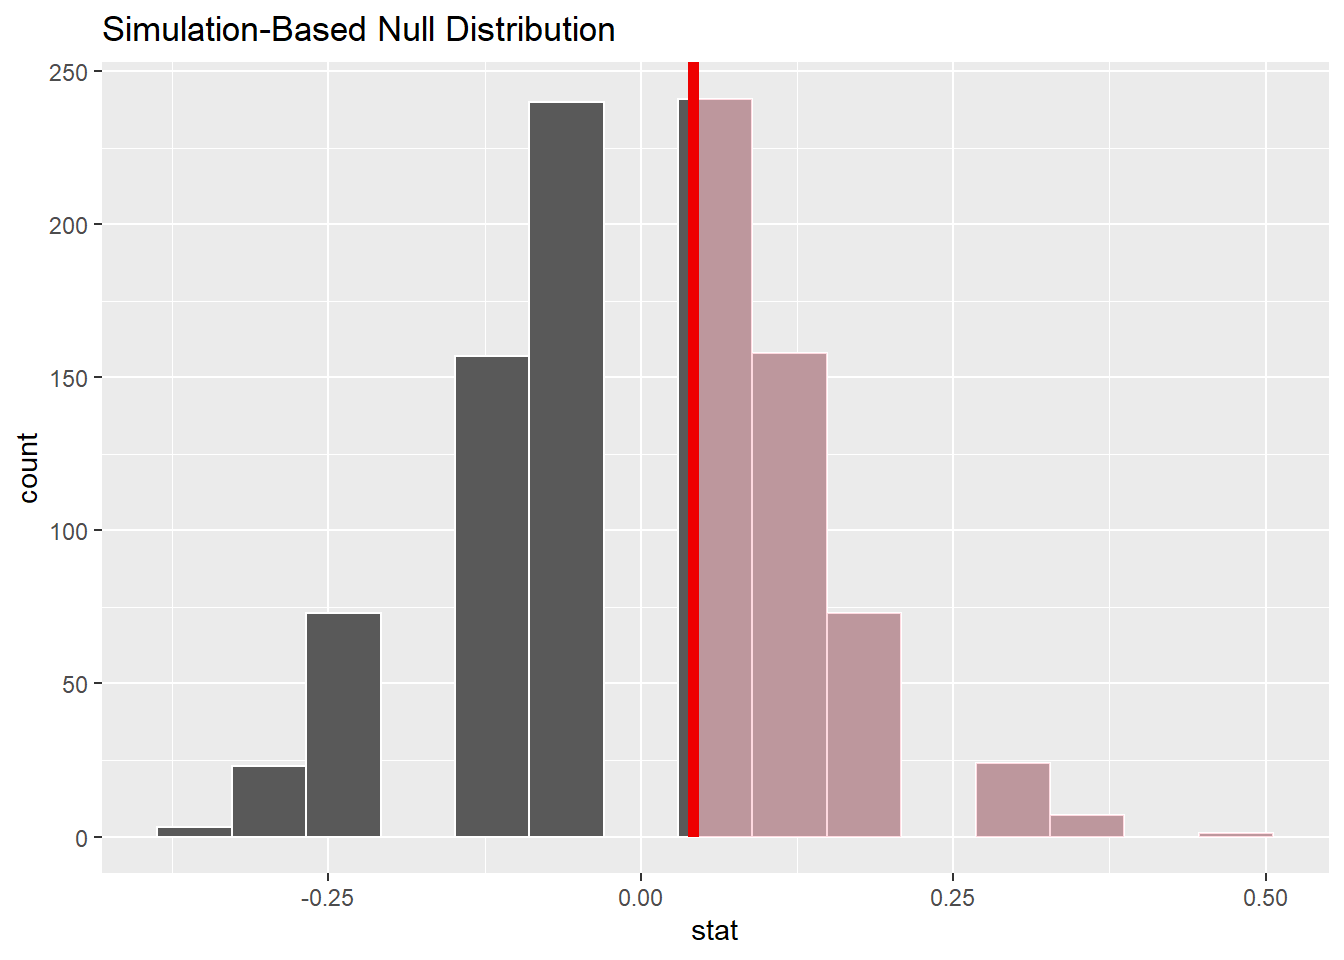
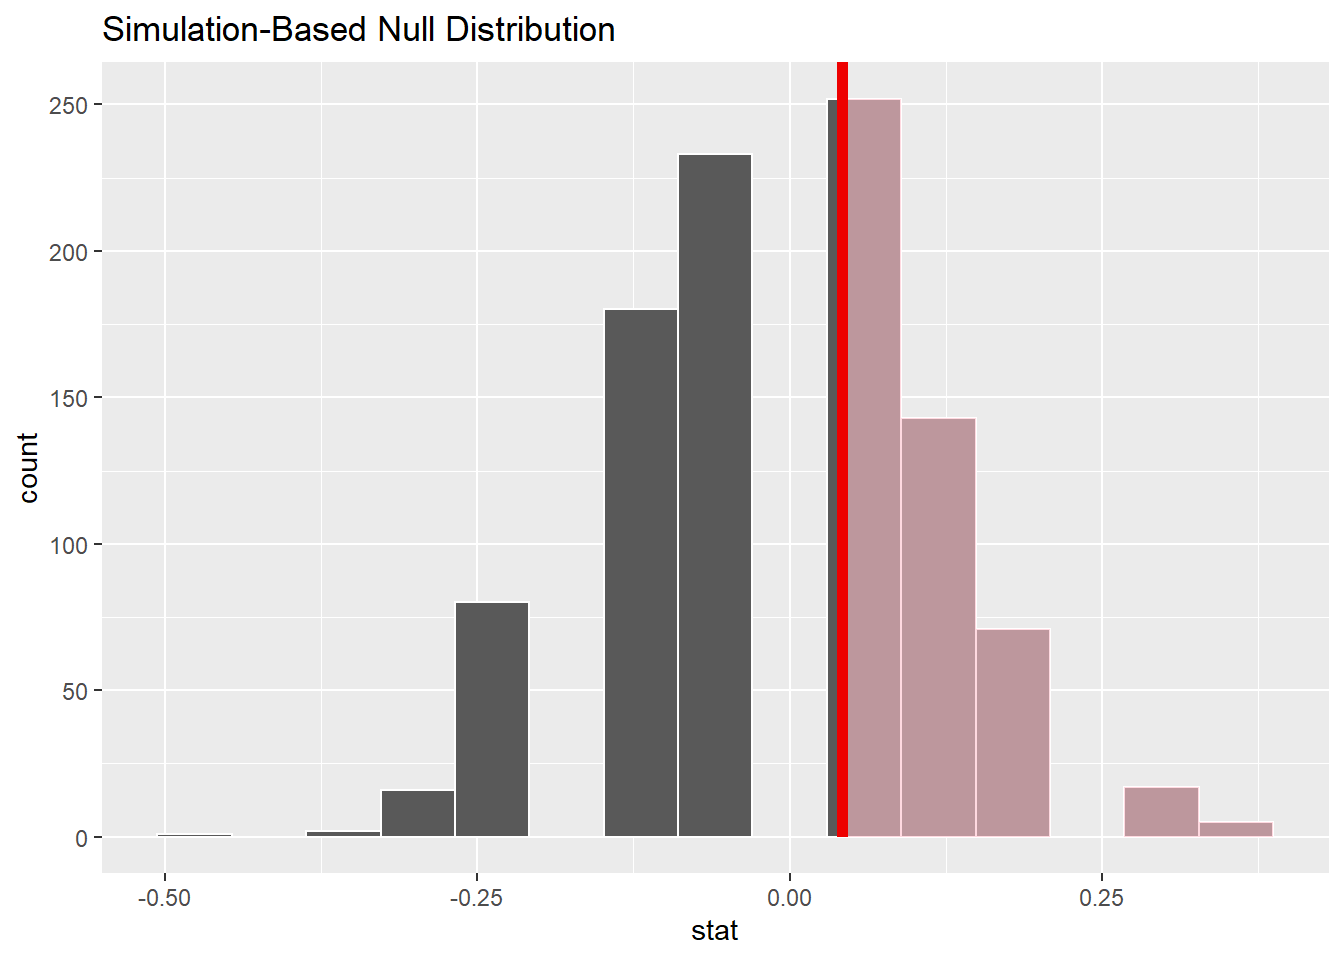
dd

diff --git a/content/post/R/2021-10-13-foundations-of-inference/index.en.html b/content/post/R/2021-10-13-foundations-of-inference/index.en.html
@@ -145,14 +145,14 @@ homeown_perm</code></pre>
 ##    HomeOwn Gender replicate
 ##    &lt;fct&gt;   &lt;fct&gt;      &lt;int&gt;
 ##  1 Own     male           1
-##  2 Own     male           1
+##  2 Rent    male           1
 ##  3 Own     male           1
 ##  4 Own     male           1
 ##  5 Own     female         1
-##  6 Own     male           1
-##  7 Own     male           1
+##  6 Rent    male           1
+##  7 Rent    male           1
 ##  8 Own     female         1
-##  9 Own     female         1
+##  9 Rent    female         1
 ## 10 Own     female         1
 ## # ... with 97,110 more rows</code></pre>
 </div>
@@ -178,16 +178,16 @@ homeown_perm</code></pre>
 <pre><code>## # A tibble: 100 x 2
 ##    replicate      stat
 ##        &lt;int&gt;     &lt;dbl&gt;
-##  1         1 -0.00495 
-##  2         2  0.000409
-##  3         3 -0.00495 
-##  4         4  0.0148  
-##  5         5 -0.00577 
-##  6         6 -0.00700 
-##  7         7 -0.0202  
-##  8         8 -0.00289 
-##  9         9 -0.00206 
-## 10        10  0.00906 
+##  1         1  0.000821
+##  2         2  0.00988 
+##  3         3  0.0115  
+##  4         4 -0.0119  
+##  5         5  0.00370 
+##  6         6  0.0152  
+##  7         7  0.0173  
+##  8         8  0.00576 
+##  9         9  0.0152  
+## 10        10  0.000821
 ## # ... with 90 more rows</code></pre>
 <pre class="r"><code># Perform 100 permutations
 homeown_perm &lt;- homes %&gt;%
@@ -369,11 +369,11 @@ disc_perm %&gt;%
 <pre><code>## # A tibble: 5 x 2
 ##   replicate    stat
 ##       &lt;int&gt;   &lt;dbl&gt;
-## 1         1  0.125 
-## 2         2  0.208 
-## 3         3 -0.0417
-## 4         4  0.292 
-## 5         5 -0.208</code></pre>
+## 1         1 -0.0417
+## 2         2 -0.0417
+## 3         3 -0.125 
+## 4         4 -0.0417
+## 5         5 -0.0417</code></pre>
 </div>
 <div id="randomizing-gender-discrimination" class="section level2">
 <h2>2-5 Randomizing gender discrimination</h2>
@@ -438,7 +438,7 @@ ggplot(disc_perm, aes(x = stat)) +
 <pre><code>## # A tibble: 1 x 3
 ##    q.90  q.95  q.99
 ##   &lt;dbl&gt; &lt;dbl&gt; &lt;dbl&gt;
-## 1 0.208 0.208 0.292</code></pre>
+## 1 0.125 0.208 0.292</code></pre>
 </div>
 <div id="two-sided-critical-region" class="section level2">
 <h2>2-9 Two-sided critical region</h2>
@@ -464,16 +464,16 @@ disc_perm %&gt;%
 <pre><code>## # A tibble: 1,000 x 2
 ##    replicate    stat
 ##        &lt;int&gt;   &lt;dbl&gt;
-##  1         1 -0.125 
-##  2         2  0.125 
-##  3         3 -0.125 
-##  4         4  0.125 
-##  5         5  0.125 
-##  6         6  0.208 
-##  7         7 -0.125 
-##  8         8 -0.125 
-##  9         9  0.0417
-## 10        10  0.0417
+##  1         1 -0.208 
+##  2         2  0.0417
+##  3         3  0.0417
+##  4         4 -0.0417
+##  5         5 -0.125 
+##  6         6  0.125 
+##  7         7  0.0417
+##  8         8 -0.0417
+##  9         9 -0.0417
+## 10        10 -0.0417
 ## # ... with 990 more rows</code></pre>
 <pre class="r"><code># For an unknown reason, result is not same as DataCamp result. Therefore, I added below line:
 #disc_perm &lt;- read.csv(&quot;disc_perm.csv&quot;)
@@ -537,7 +537,7 @@ calc_upper_quantiles(disc_perm)</code></pre>
 <pre><code>## # A tibble: 1 x 3
 ##    q.90  q.95  q.99
 ##   &lt;dbl&gt; &lt;dbl&gt; &lt;dbl&gt;
-## 1 0.208 0.208 0.292</code></pre>
+## 1 0.125 0.208 0.292</code></pre>
 <pre class="r"><code># Calculate the quantiles associated with the small dataset
 calc_upper_quantiles(disc_perm_small)</code></pre>
 <pre><code>##   q.90 q.95 q.99
@@ -564,7 +564,7 @@ disc_perm %&gt;%
 <pre><code>## # A tibble: 1 x 1
 ##   p_value
 ##     &lt;dbl&gt;
-## 1   0.504</code></pre>
+## 1   0.488</code></pre>
 <pre class="r"><code># Visualize and calculate the p-value for the small dataset
 #disc_perm_small %&gt;%
 #  visualize(obs_stat = diff_orig_small, direction = &quot;greater&quot;)
@@ -627,7 +627,7 @@ disc_perm %&gt;%
 <pre><code>## # A tibble: 1 x 1
 ##   p_value
 ##     &lt;dbl&gt;
-## 1   0.504</code></pre>
+## 1   0.488</code></pre>
 <pre class="r"><code># Find the p-value from the new data
 disc_perm_new %&gt;%
   summarize(p_value = mean(diff_orig_new &lt;= stat))</code></pre>
@@ -646,7 +646,7 @@ disc_perm %&gt;%
 <pre><code>## # A tibble: 1 x 1
 ##   p_value
 ##     &lt;dbl&gt;
-## 1    1.01</code></pre>
+## 1   0.976</code></pre>
 </div>
 <div id="hypothesis-testing-errors-opportunity-cost" class="section level2">
 <h2>3- Hypothesis testing errors: opportunity cost</h2>
@@ -840,12 +840,85 @@ ggplot(opportunity, aes(x = group, fill = decision)) +
 <p>As in Chapter 2 Exercise 5, you will permute the data to generate a distribution of differences as if the null hypothesis were true.</p>
 <p>In the study, the number of individuals in each of the control and treatment groups is fixed. Additionally, when you assume that the null hypothesis is true—that is, the experiment had no effect on the outcome of buying a DVD—it is reasonable to infer that the number of individuals who would buy a DVD is also fixed. That is, 97 people were going to buy a DVD regardless of which treatment group they were in.</p>
 <p>Using the new data and the methods from the previous chapter, create a randomization distribution of the difference in proportions calculated on permuted data.</p>
+<pre class="r"><code># Calculate the observed difference in purchase rate
+diff_obs &lt;- opportunity %&gt;%
+  # Group by group
+  group_by(group) %&gt;%
+  # Calculate proportion deciding to buy a DVD
+  summarise(prop_buy = mean(decision==&quot;buyDVD&quot;)) %&gt;%
+  # Calculate difference between groups
+  summarise(stat = diff(prop_buy)) %&gt;% 
+  pull()</code></pre>
+<pre class="r"><code># Create data frame of permuted differences in purchase rates
+opp_perm &lt;- opportunity %&gt;%
+  # Specify decision vs. group, where success is buying a DVD
+  specify(decision~ group, success = &quot;buyDVD&quot;) %&gt;%
+  # Set the null hypothesis to independence
+  hypothesize(null = &quot;independence&quot;) %&gt;%
+  # Generate 1000 reps of type permute
+  generate(reps = 1000, type = &quot;permute&quot;) %&gt;%
+  # Calculate the summary stat difference in proportions
+  calculate(stat = &quot;diff in props&quot;, order = c(&quot;treatment&quot;, &quot;control&quot;))
+    
+# Review the result
+opp_perm</code></pre>
+<pre><code>## # A tibble: 1,000 x 2
+##    replicate    stat
+##        &lt;int&gt;   &lt;dbl&gt;
+##  1         1  0.0667
+##  2         2 -0.0667
+##  3         3  0.0133
+##  4         4 -0.0400
+##  5         5 -0.12  
+##  6         6 -0.0133
+##  7         7  0.0133
+##  8         8 -0.0667
+##  9         9 -0.147 
+## 10        10 -0.0133
+## # ... with 990 more rows</code></pre>
+<pre class="r"><code># From previous steps
+diff_obs &lt;- opportunity %&gt;%
+  group_by(group) %&gt;%
+  summarize(prop_buy = mean(decision == &quot;buyDVD&quot;)) %&gt;%
+  summarize(stat = diff(prop_buy)) %&gt;% 
+  pull()
+opp_perm &lt;- opportunity %&gt;%
+  specify(decision ~ group, success = &quot;buyDVD&quot;) %&gt;%
+  hypothesize(null = &quot;independence&quot;) %&gt;%
+  generate(reps = 1000, type = &quot;permute&quot;) %&gt;%
+  calculate(stat = &quot;diff in props&quot;, order = c(&quot;treatment&quot;, &quot;control&quot;))
+  
+# Using the permuation data, plot stat
+ggplot(opp_perm, aes(x = stat)) + 
+  # Add a histogram layer with binwidth 0.005
+  geom_histogram(binwidth = 0.005) +
+  # Add a vline layer with intercept diff_obs
+  geom_vline(aes(xintercept = diff_obs), color = &quot;red&quot;)</code></pre>
+<p><img src="{{< blogdown/postref >}}index.en_files/figure-html/unnamed-chunk-31-1.png" width="672" /></p>
 </div>
 <div id="summarizing-opportunity-cost-2" class="section level2">
 <h2>3-5- Summarizing opportunity cost (2)</h2>
 <p>Now that you’ve created the randomization distribution, you’ll use it to assess whether the observed difference in proportions is consistent with the null difference. You will measure this consistency (or lack thereof) with a p-value, or the proportion of permuted differences less than or equal to the observed difference.</p>
 <p>The permuted dataset and the original observed statistic are available in your workspace as opp_perm and diff_orig respectively.</p>
 <p>visualize and get_p_value using the built in infer functions. Remember that the null statistics are above the original difference, so the p-value (which represents how often a null value is more extreme) is calculated by counting the number of null values which are less than the original difference.</p>
+<pre class="r"><code># Visualize the statistic 
+opp_perm %&gt;%
+  visualize(obs_stat = diff_orig, direction = &quot;less&quot;)</code></pre>
+<p><img src="{{< blogdown/postref >}}index.en_files/figure-html/unnamed-chunk-32-1.png" width="672" /></p>
+<pre class="r"><code># Calculate the p-value using `get_p_value`
+opp_perm %&gt;%
+  get_p_value(obs_stat = diff_orig, direction = &quot;less&quot;)</code></pre>
+<pre><code>## # A tibble: 1 x 1
+##   p_value
+##     &lt;dbl&gt;
+## 1   0.741</code></pre>
+<pre class="r"><code># Calculate the p-value using `summarize`
+opp_perm %&gt;%
+  summarize(p_value = mean(stat &lt;= diff_orig))</code></pre>
+<pre><code>## # A tibble: 1 x 1
+##   p_value
+##     &lt;dbl&gt;
+## 1   0.741</code></pre>
 </div>
 <div id="p-value-for-two-sided-hypotheses-opportunity-costs" class="section level2">
 <h2>3-10- p-value for two-sided hypotheses: opportunity costs</h2>
